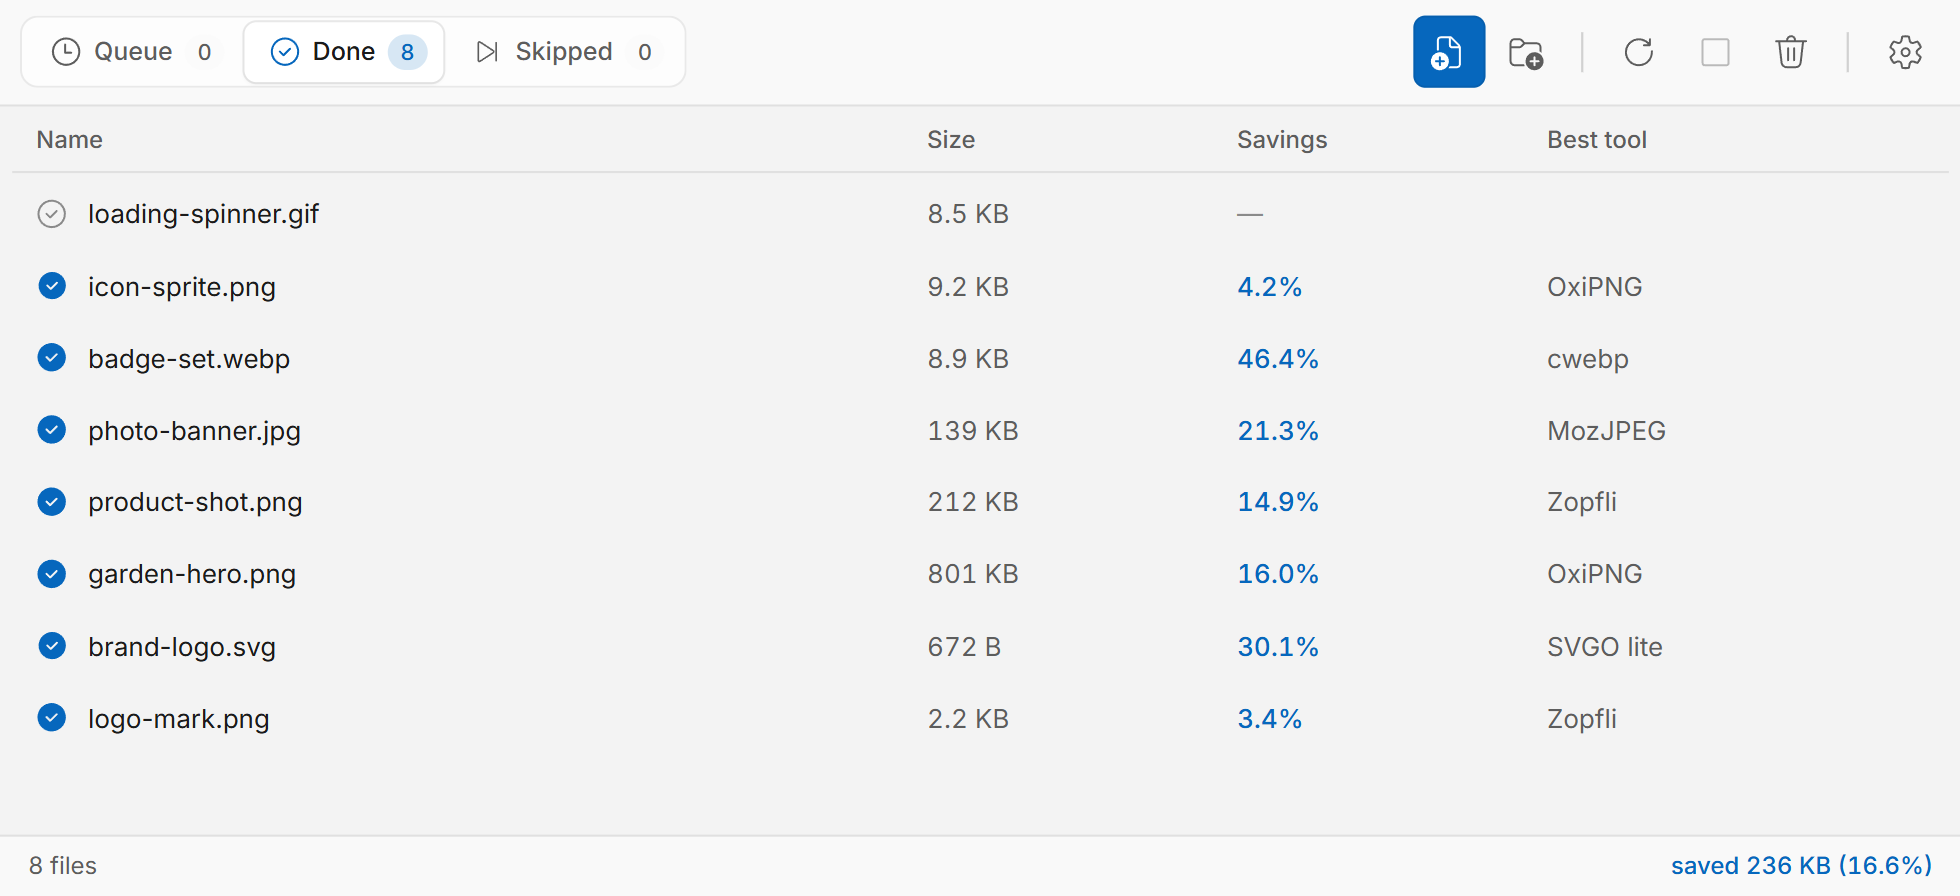
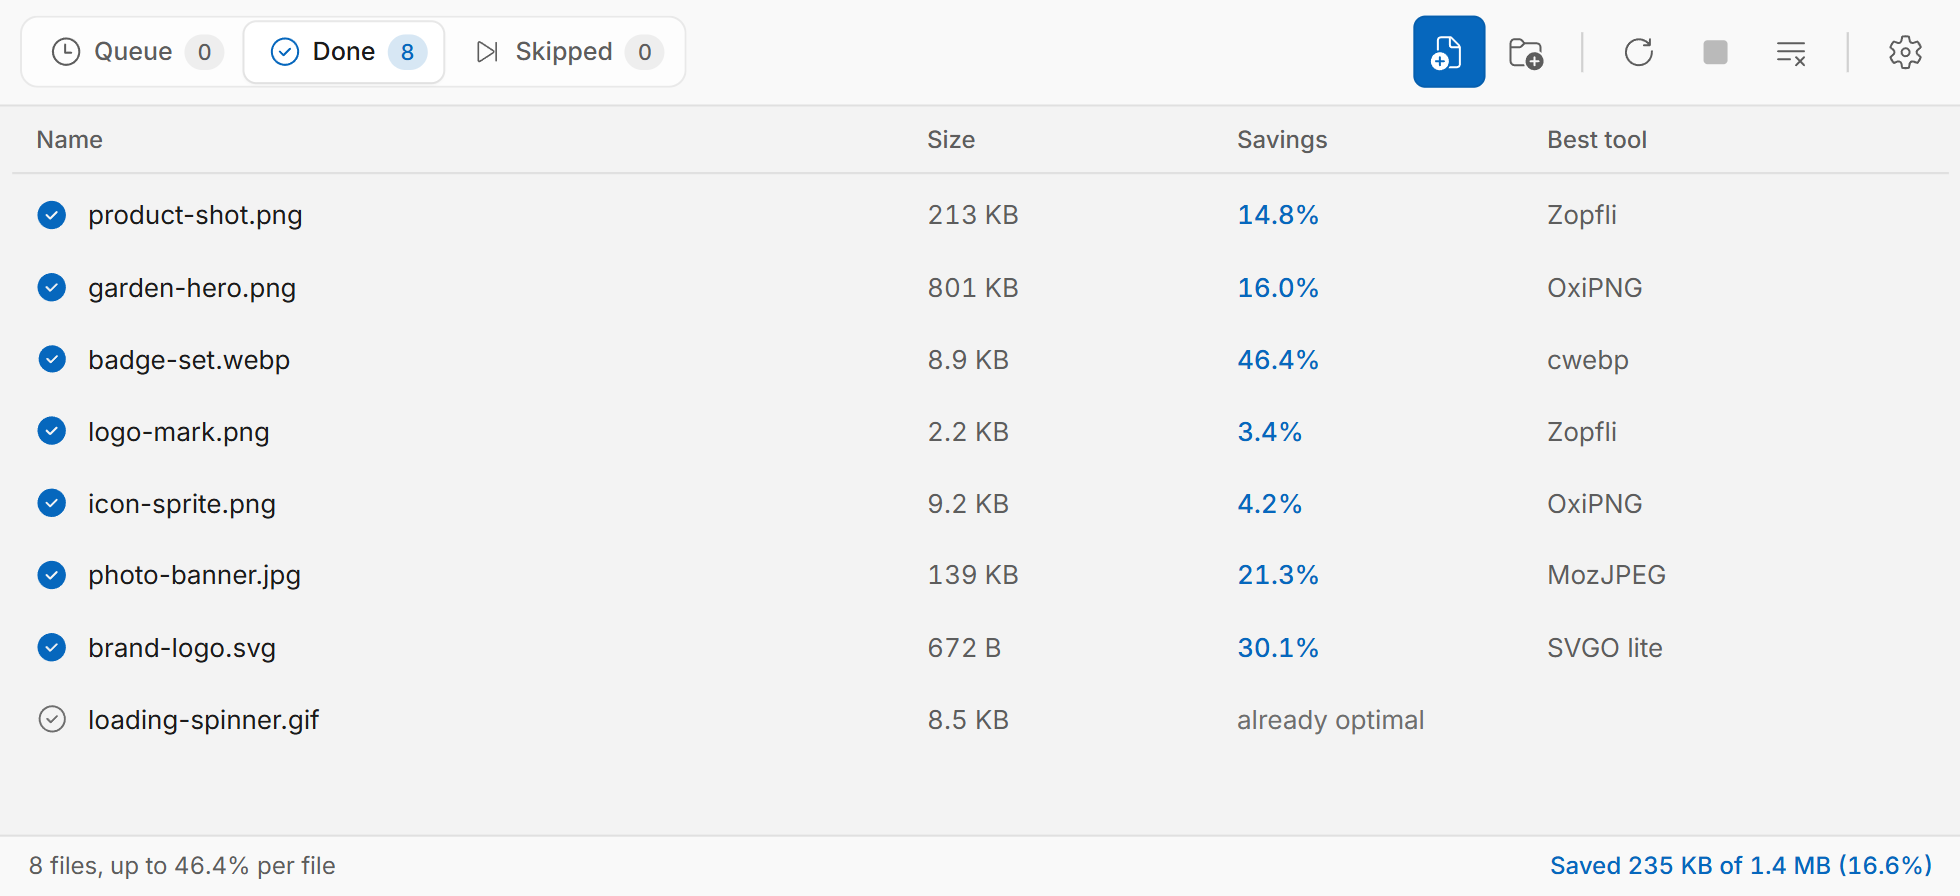
Retake the screenshots, and describe this round's changes
The screenshots show the new list and settings: a running file's
optimizers and time, "already optimal", the filled Stop and the
Clear-the-list icon, the Formats tab with a card per format, and the
Windows accent switch beside the custom colour. Optimized by this build
they come out 37.3% smaller.

Both READMEs now describe the right-click and Edit menus, failures and the
filter, the keyboard, the settings tabs, the thread budget and priority,
the measured large-list numbers, the hard-linked backups and their budget,
output validation and the rename retries, the sandbox, fuses and log, the
new tests, the packaged-app smoke test and the release environment,
checksums and attestation.

scripts/bench.mjs measures the optimizers on a folder of images. Over the
realistic images here, OxiPNG's own Zopfli saved far less than the current
Zopfli pass, so the PNG plan stays as it is.

diff --git a/win/README.md b/win/README.md
@@ -228,7 +228,61 @@ or `added` to keep drop order. Only files that have not started are reordered.
 Without a global cap the two limits multiply - files in flight times optimizers
 per file - and oversubscribe the machine. Measured over thirty photos on a
 16-core machine: 2 workers 27.0s, 4 workers 15.0s, 8 workers 12.0s, 16 workers
-12.6s. The default is the core count capped at eight.
+12.6s. The default is the core count capped at eight; it is only saved once
+someone picks a number, so a settings file moved to another PC does not carry
+this one's core count.
+
+OxiPNG, pngquant, cwebp, avifenc and avifdec each start a thread per core
+unless told otherwise, so eight of them at once ran several times as many
+threads as the PC has. `lib/semaphore.js` hands each tool, as it starts, the
+cores divided among the slots in use (or among all slots while files are
+waiting): `-t` for OxiPNG, `-j` for avifenc and avifdec, `RAYON_NUM_THREADS`
+for OxiPNG and pngquant, and cwebp's `-mt` only with more than one. The last
+file of a batch gets every core. avifenc's `--autotiling` is left off, since
+tiles cost size. Every optimizer runs at below-normal priority, as the macOS
+app's RunLowPriority did, so the PC stays usable.
+
+With fewer files in hand than slots, a step that goes first only because it
+rewrites the file - Zopfli, a lossy JpegOptim pass, Pngcrush stripping - races
+the others on the same input instead, as `Job.m` does; pngquant still feeds
+the others, and webpmux still strips before a lossy re-encode is measured.
+Guetzli runs one at a time across every file, waiting for its turn before it
+takes a slot.
+
+SVGO runs in Electron utility processes that load the bundle once and are
+handed one file after another: the first file took 104 ms including starting
+the process, each one after it 1 ms, against 100-300 ms for the whole Electron
+process that used to be started per SVG.
+
+The window stays responsive with tens of thousands of files. Measured with
+20,000 small PNGs dropped as one folder, before and after the changes that
+made it so:
+
+| | before | after |
+| --- | --- | --- |
+| the list appears | 263 s | 4.6 s |
+| a round trip to the main process while files run | 93 ms, up to 1.2 s | 3 ms, up to 90 ms |
+| Stop | 37 s | 0.6 s |
+| Clear | 30 s | 0.9 s |
+
+Changed files go to the window in batches, at most ten times a second, with
+the totals; the window keeps them in a model and draws only the rows in sight;
+a folder is scanned by its entries' own types, with sizes and resolved paths
+fetched a few dozen at a time; and the list of optimized files is appended
+once a second rather than after every file.
+
+`scripts/bench.mjs` measures the optimizers on a folder of images: bytes saved,
+time and wins per tool, and the current PNG plan against OxiPNG's own Zopfli.
+Over the realistic images in this repository - 33 screenshots, icons, photos,
+GIFs and WebPs - OxiPNG with `-o max -Z` saved 0.3 KB on the PNGs Zopfli runs
+on, against 6.8 KB for Zopfli followed by OxiPNG and AdvPNG, and took longer,
+so the plan stays. Most of those images were optimized already; the interlaced
+Gifsicle pass won none of three GIFs, too few to drop it on. The script is
+there for larger, real image sets.
+
+```sh
+cd win && node scripts/bench.mjs <folder>
+```
 
 ## Tests
 
@@ -270,8 +324,26 @@ unless a directory of them is given:
 cd win && IMAGEOPTIM_BIN=/path/to/bin npm test
 ```
 
-CI runs the stubbed suite on Linux for every push to `win/`, and the binary
-checks on Windows against the executables each build has just produced.
+`binaries.test.js` also runs every optimizer on a path longer than 260
+characters with Chinese and an emoji in it, and checks that what each real tool
+writes passes `lib/validate.js`. The rest of the suite covers settings
+validation and migration (`settings.test.js`), the shared slots and thread
+budget (`semaphore.test.js`), starting and stopping a tool (`run.test.js`), the
+command line (`argv.test.js`), the window's channel names (`ipc.test.js`) and
+the log's path scrubbing (`log.test.js`).
+
+CI runs the stubbed suite on Linux and Windows for every push and pull request
+that touches `win/`, and the binary checks on Windows against the executables
+each build has just produced.
+
+`scripts/smoke.mjs` runs a packaged build the way a user does - image files on
+its command line, results in the files - since the packaged app cannot be
+debugged from outside. One image of each format has to come out smaller and
+whole, the SVG through SVGO from inside `app.asar`:
+
+```sh
+cd win && npm run pack && node scripts/smoke.mjs
+```
 
 ## Continuous integration
 
@@ -281,6 +353,16 @@ electron-builder. It runs on demand and on changes to `build-windows.ps1` or
 `win/`, excluding markdown, because Windows runners bill at twice the rate. A
 `v*` tag runs it too, and then it also publishes a GitHub Release; see
 [Releasing](#releasing).
+
+The optimizers' own source folders start a build too. Optimizers built from
+unchanged sources are reused from the cache, keyed on a hash of the sources and
+`build-windows.ps1`, and so are Electron's downloads; a tag always builds from
+scratch and restores nothing. After packaging, the job reads the fuses, checks
+`svgo.js` is inside `app.asar`, runs `scripts/smoke.mjs` on the unpacked app,
+then installs it silently, runs the smoke test on the installed copy and
+uninstalls it. `npm audit` checks the packages the app ships. Every action is
+pinned to the commit behind its tag, checkouts keep no credentials, and
+Dependabot proposes updates.
 
 The AOM library is cached between runs with `actions/cache`, keyed on a hash of
 `aom/**`. The build script checks the stamp in the restored prefix as it does
@@ -365,6 +447,20 @@ directory on PATH: the full test suite including the binary checks, and an
 optimize run over PNG, JPEG, GIF and SVG samples with every result decoded
 afterwards.
 
+The window's renderer is sandboxed, with context isolation and no Node: the
+preload hands it a narrow API, and every IPC handler checks the call comes from
+the app's own page in its own window, and checks what it is given. The window
+cannot navigate, open windows or attach webviews, and no permission is granted
+to anything. The packaged app's Electron fuses turn off `ELECTRON_RUN_AS_NODE`,
+`NODE_OPTIONS` and `--inspect`, and make it load only from `app.asar`, whose
+integrity is checked; it refuses `--remote-debugging-port`, which no fuse
+reaches, and ignores `IMAGEOPTIM_BIN`. Only the en-US Chromium locale ships.
+
+What goes wrong is written to `logs\main.log` in the user-data folder (Help →
+Open Log Folder): optimizer runs that exit with an unexpected code, timeouts,
+damaged results, crashes of the window or a child process, and uncaught errors.
+Paths are taken out first. Crash dumps stay on the PC.
+
 The page declares `color-scheme: light dark`, without which Chromium draws its
 native controls - scrollbars, sliders, checkboxes, the select - in the light
 scheme even in a dark window. Scrollbars use the standard `scrollbar-width` and
@@ -376,9 +472,11 @@ The UI font is Inter, bundled in `renderer/fonts/` (from
 app looks the same on machines without it installed; anything outside Inter's
 scripts falls back to Segoe UI. The icons are Microsoft's Fluent UI System
 Icons (MIT), copied into `renderer/icons/` and drawn as CSS masks so they take
-the text or accent colour. The accent colour is a hue and saturation from
-Settings → Appearance; `style.css` derives every shade from them in OKLCH at
-fixed lightnesses, so text keeps its contrast whichever colour is picked. The
+the text or accent colour. The accent colour is Windows' own, or a hue and
+saturation picked in Settings → Appearance; `style.css` derives every shade
+from them in OKLCH at fixed lightnesses, so text keeps its contrast whichever
+colour it is. In Windows' contrast themes every state has a system colour of
+its own, and with reduced motion nothing spins. The
 Theme setting there sets Electron's `nativeTheme.themeSource`, which drives
 `prefers-color-scheme` in the page and the native controls alike.
 
@@ -401,10 +499,38 @@ size and modification time it had when the optimizers started: if another progra
 changed it in the meantime the save is refused, because the result was derived
 from the old bytes and the backup would be of the old bytes too.
 
-Each original is copied to a scratch directory before being replaced, and Revert
-restores from there through the same atomic path. That directory is created with
-`mkdtemp`, swept at startup and removed at quit, and a job's backup is deleted
-when it leaves the list.
+Antivirus scanners, the search indexer, OneDrive and viewers hold a file open
+for a moment after it changes, and Windows then refuses the rename. It is
+retried up to eight times over about 1.4 s before the save falls back to
+copying over the original, which some network volumes need. If that copy fails
+partway, the original is put back from its backup; if even that fails, the
+backup is saved beside the file as `name (ImageOptim backup).ext`, or in the
+home folder, and the error says where. A staging copy that fails for lack of
+space never falls back at all. `save()` stays synchronous on purpose, so Stop,
+Clear and quitting cannot land halfway through a write.
+
+Before any of that, the result has to look like a whole image: a PNG signature,
+IHDR and the closing IEND; a JPEG that ends in its EOI marker; a GIF that ends
+with its trailer; a WebP whose RIFF length is the file's; AVIF boxes that add up
+to the file exactly; an SVG that closes its root (`lib/validate.js`). A tool can
+exit 0 with a truncated file, and smaller is all the app used to ask. Each run
+also has a time limit, counted from when it gets a slot, and a full disk is
+reported as one rather than as "no improvement". Whether a file can be written
+is tested by opening it, since `fs.access` on Windows sees only the read-only
+flag; a read-only file says so.
+
+Each original is kept in a scratch directory before being replaced, and Revert
+restores from there through the same atomic path. Where the scratch directory
+is on the file's drive and the file has no other names, the backup is a hard
+link: no copying, and once the optimized file is renamed over the original the
+link is all that holds the old data. The one path that writes straight into the
+original gives a linked backup data of its own first. Backups still take space,
+so past 2 GB of them a newly optimized file keeps none, cannot be reverted, and
+never keeps a backup of a later result, which Revert would otherwise put back
+as though it were the original. The directory is created with `mkdtemp`, swept
+a few seconds after startup and removed at quit, a job's backup is deleted when
+it leaves the list, and closing the window or clearing the list asks first
+while files could still be reverted.
 
 With **Keep originals** on (Settings → Options, off by default) the copy goes
 into an `ImageOptim originals` folder beside the file instead, with the
@@ -413,8 +539,10 @@ original's dates, and stays there. `lib/originals.js` holds the rules:
 * The copy is made before anything is written, and if it can't be made the save
   is refused: a file is never overwritten without its copy.
 * Only files that actually got smaller are copied, so already-optimal files
-  leave no folder behind. A file this app produced itself (it is in the list of
-  optimized files below) is not copied again as if it were an original.
+  leave no folder behind. A file this app produced itself is not copied again
+  as if it were an original: the list of optimized files marks content the app
+  wrote, as distinct from a file it only found to be optimal already, which is
+  still somebody's untouched original.
 * A same-named file already in the folder is never replaced: an identical one
   is reused, a different one makes the copy `name (2).png`.
 * Clearing the list never deletes a kept original. Revert moves the copy back
@@ -423,7 +551,8 @@ original's dates, and stays there. `lib/originals.js` holds the rules:
   since. A copy that was already there before the run is copied back and left
   in place.
 * Folders named `ImageOptim originals` are never searched when a folder is
-  added, and a file inside one is listed with the reason it was left alone.
+  added, and a file inside one is listed with a note saying why it was left
+  alone.
 
 ## Differences from the macOS app
 
@@ -497,13 +626,33 @@ about how long is left. `lib/eta.js` works this out:
 * Each running row has a line along its bottom over a faint track that shows
   where it ends. It follows the same estimate and never moves backwards.
 
+The list is a grid: one tab stop, and the keys below. Right-clicking a row, or
+the Menu key, opens a menu for the selected files - Open, Show in Explorer,
+Copy Path, Optimize Again, Stop, Restore Original, Remove from List - and the
+Edit menu has the same commands. Each heading sorts by its column. A running
+file shows which optimizers are at work, how many are done and for how long,
+and has a Stop button of its own; a failed one says what happened in words,
+and an optimizer that crashed, hung or wrote a damaged file marks its row. The
+status bar counts the failures, and clicking the count shows only them.
+
 | | |
 | --- | --- |
-| Double-click a row | show the file in Explorer |
+| Double-click a row, or Enter | show the file in Explorer |
+| Arrows, Page Up/Down, Home, End | move through the list; with Shift, select a range |
+| Ctrl+A | select every file in the tab |
 | Delete | remove the selected rows from the list |
 | Ctrl+Z | revert the selected files to their originals |
+| Ctrl+Shift+C | copy the selected files' paths |
+| Ctrl+F | filter the list by name, or show only failed files |
 | Ctrl+R | optimize everything again, one effort level higher, already optimized files included |
 | Ctrl+. | stop |
+| Ctrl+L | lossy minification on or off |
+| Ctrl+, | settings |
+
+When a batch ends with the window in the background, its taskbar button
+flashes, and a batch that took more than ten seconds ends with a Windows
+notification. The taskbar bar turns red while files have failed, and the PC
+does not go to sleep while files are being optimized.
 
 Files are overwritten in place. Turn on Keep originals, or keep a copy of
 anything you cannot regenerate.
@@ -555,7 +704,11 @@ writes one only for a signed build; `win.verifyUpdateCodeSignature: false` in
 `package.json` makes that explicit. The download is instead checked against the
 sha512 in `latest.yml`, which comes over HTTPS from the same release - so anyone
 who can publish a release on the repository can ship code to every installed
-copy, and write access to it should be treated accordingly.
+copy, and write access to it should be treated accordingly: the `release`
+environment's required reviewer, a ruleset that restricts who may push `v*`
+tags, and GitHub's immutable releases are the repository settings that guard
+it, and signing (SignPath's free program for open source, or Azure Trusted
+Signing) would let the updater check the publisher itself.
 
 The updater downloads with Electron's own network stack, so the installer has
 no mark of the web and SmartScreen does not stop it; the blue "Windows protected
@@ -594,10 +747,17 @@ installed from then on accept only updates signed by the same publisher.
    | `ImageOptim-0.2.0-win.zip` | the portable copy |
    | `ImageOptim-Setup-0.2.0.exe.blockmap` | for the updater: differential downloads |
    | `latest.yml` | for the updater: version, file name, sha512 |
+   | `SHA256SUMS.txt` | checksums of the installer, the zip and `latest.yml` |
 
-   Release notes are generated from the commits since the previous tag and can
-   be edited on GitHub afterwards. Installed copies pick the release up by
-   themselves within a few seconds of their next start.
+   along with a build provenance attestation for the installer, the zip and
+   `latest.yml`, which `gh attestation verify` checks. Release notes are
+   generated from the commits since the previous tag and can be edited on
+   GitHub afterwards. Installed copies pick the release up by themselves
+   within a few seconds of their next start.
+
+   The `release` job runs in the `release` environment. With a required
+   reviewer set on it (repository Settings → Environments), nothing reaches
+   installed copies until that reviewer approves the run.
 
 The push to `main` starts a second Windows build of the same commit, because
 `win/package.json` changed. Only the tag's run publishes anything, so the other
@@ -607,9 +767,11 @@ A release is published only when every job succeeded. The packaging job still
 runs after a partial optimizer build, so its artifacts can be inspected, but a
 release with missing optimizers is not something to hand out - least of all
 once the updater is on and installed copies take releases unattended.
-Re-running the workflow for a tag replaces that release's files rather than
-failing. The updater never downgrades, so a bad release is fixed by releasing a
-higher version.
+A release that is already published is never touched again: re-running the
+workflow for its tag fails rather than replace its files, which would hand
+installed copies different bytes under the same version. Only a draft left by
+a failed attempt is completed. The updater never downgrades, so a bad release
+is fixed by releasing a higher version.
 
 The installer is named without spaces (`nsis.artifactName`). GitHub turns spaces
 in asset names into dots while `latest.yml` names a dashed copy, so an

diff --git a/README.md b/README.md
@@ -28,6 +28,14 @@ is left. The time is learned from the files as they finish. Files an earlier
 run already optimized, in this session or a past one, are recognised by their
 content and go straight to Skipped, left as they are.
 
+A running file says which optimizer is at work and for how long. A file that
+could not be optimized says why, in words, and the status bar counts the
+failures. Right-click a file, or select several, to open it, show it in
+Explorer, copy its path, optimize it again, stop it, restore the original or
+take it off the list; the column headings sort, and Ctrl+F filters. It stays
+quick with tens of thousands of files, and works with the keyboard alone, with
+a screen reader and in Windows' contrast themes.
+
 ![Two large PNGs still running, each row's line over its track, and the bar and time left along the bottom](docs/screenshots/progress-light.png)
 
 ![The Done list after a run, showing per-file savings and which optimizer won](docs/screenshots/results-light.png)
@@ -38,19 +46,20 @@ Appearance.
 ![The same list in dark mode](docs/screenshots/results-dark.png)
 
 Settings has three tabs:
-- **Optimizers** switches each optimizer on and off and shows which are
-  installed.
+- **Formats** has a card for each format: its optimizers, whether its
+  metadata is stripped and, with lossy minification on, its quality. It also
+  shows which optimizers are installed.
 - **Options** has:
-  - lossy quality per format;
-  - metadata stripping;
-  - how hard to work;
+  - lossy minification;
   - **Keep originals**;
-  - whether to skip files already optimized.
+  - whether to skip files already optimized;
+  - the queue order and how hard to work.
 
-![The settings panel on its Optimizers tab](docs/screenshots/settings-dark.png)
+![The settings panel on its Formats tab](docs/screenshots/settings-dark.png)
 
-**Appearance** picks the theme and the accent colour, a hue and a saturation
-slider that every shade in the window follows, here set to purple.
+**Appearance** picks the theme and the accent colour: Windows' own, or a hue
+and a saturation slider that every shade in the window follows, here set to
+purple.
 
 ![The settings panel on its Appearance tab, with a purple accent](docs/screenshots/settings-appearance-light.png)
 
@@ -93,7 +102,7 @@ with MinGW-w64 under MSYS2, and `win/` packages the app around them. See
 plans and the Zopfli size threshold were derived.
 
 The screenshots above were taken on Windows 11 from a real run, and were
-themselves optimized by this build: 36.6% smaller, Zopfli winning all five.
+themselves optimized by this build: 37.3% smaller, Zopfli winning all five.
 
 ---
 
